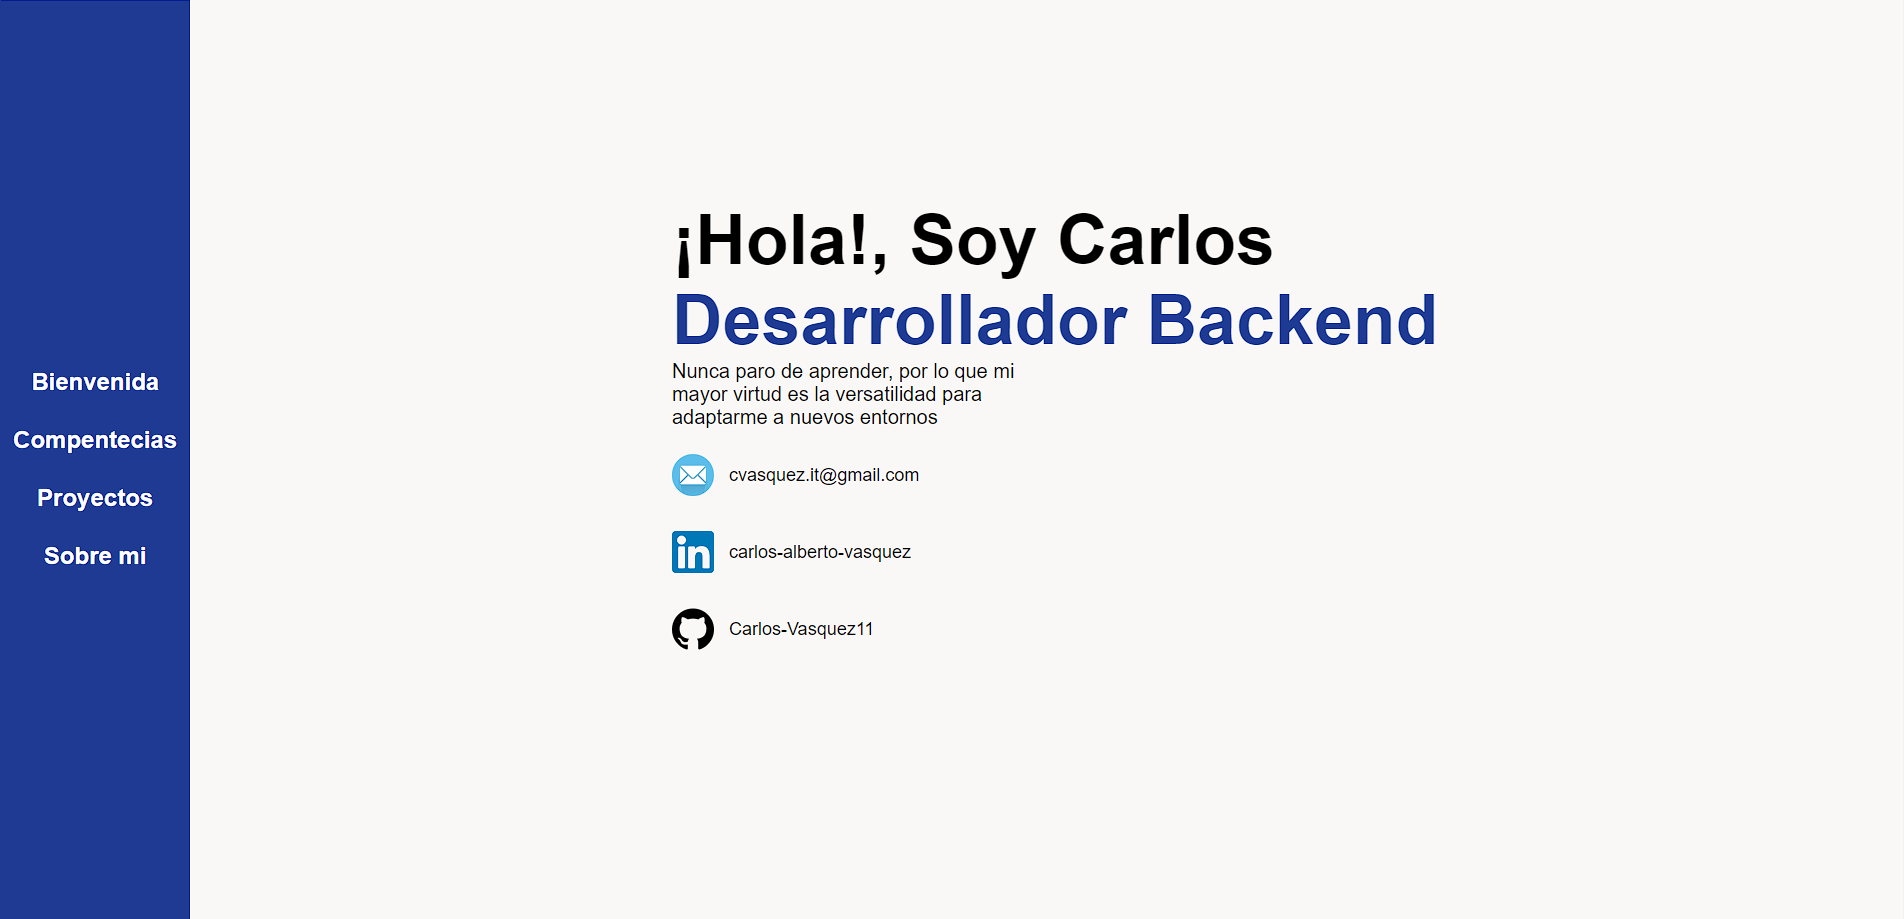
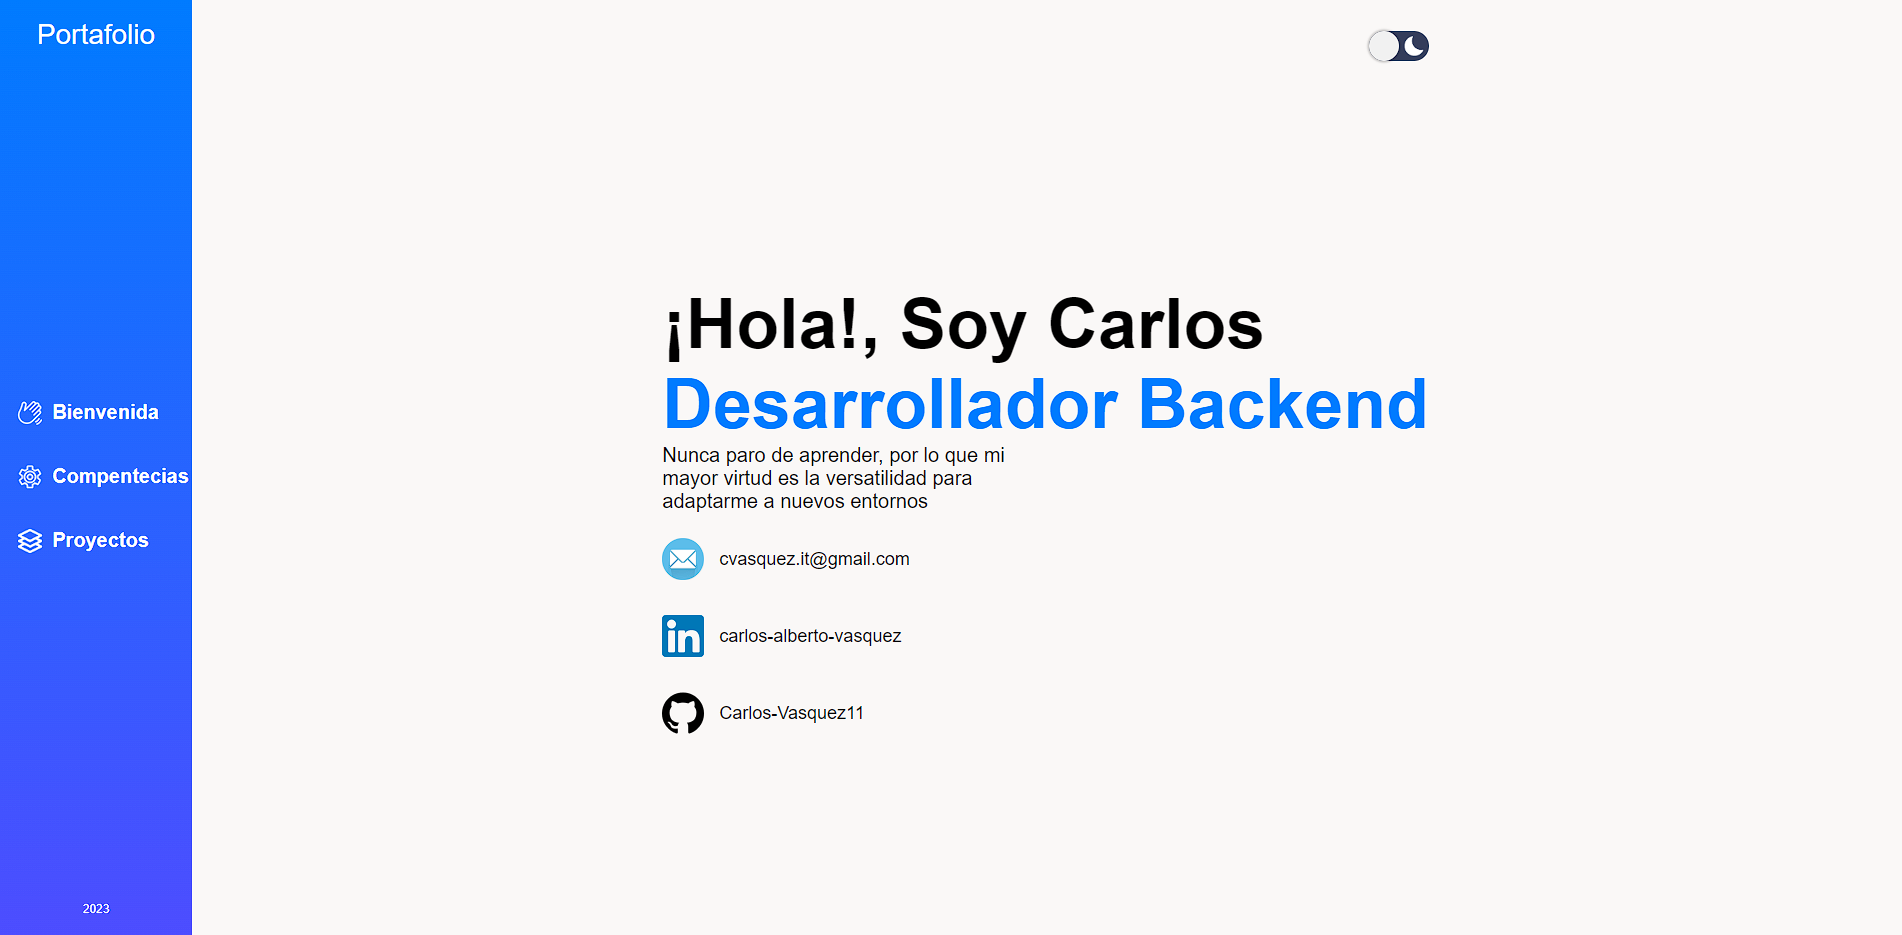
website updated

diff --git a/index.html b/index.html
@@ -1,4 +1,5 @@
 <!DOCTYPE html>
+<!--Flaticon provided some icons for the menu-->
 <html lang="es">
 <head>
     <meta charset="UTF-8">
@@ -8,17 +9,24 @@
     <link rel="stylesheet" type="text/css" href="./styles/index.css">
     <link rel="stylesheet" type="text/css" href="./styles/light.css" media="(prefers-color-scheme: light)">
     <link rel="stylesheet" type="text/css" href="./styles/dark.css" media="(prefers-color-scheme: dark)">
-    <link rel="stylesheet" media="(max-width: 1100px)" href="./styles/responsive.css">
-    <script type="module" src="./main.js"></script>
+    <link rel="stylesheet" media="(max-width: 1530px)" href="./styles/responsive.css">
+    <script type="module" src="./js/main.js"></script>
     <title>Carlos Vasquez</title>
 </head>
 <body>
 
-    <nav class="menu">
-        <a href="#welcome-seccion">Bienvenida</a>
-        <a href="#skills-seccion">Compentecias</a>
-        <a href="#project-seccion">Proyectos</a>
-    </nav>
+    <div class="menu">
+        <p class="tittle">Portafolio</p>
+
+        <nav class="menu-nav">
+            <a href="#welcome-seccion"><img src="./assets/menu/bienvenido.png" class="menu-icon">Bienvenida</a>
+            <a href="#skills-seccion"><img src="./assets/menu/skills.png" class="menu-icon">Compentecias</a>
+            <a href="#project-seccion"><img src="./assets/menu/projects.png" class="menu-icon">Proyectos</a>
+        </nav>
+        
+
+        <p class="year">2023</p>
+    </div>
 
     <main>
 

diff --git a/styles/index.css b/styles/index.css
@@ -100,22 +100,49 @@ html{
     bottom: 0;
     z-index: 1;
 
-    background-color: var(--secundary-blue);
+    background-image: linear-gradient(to bottom, var(--secundary-blue), #4d4dff);
 
     display: flex;
     flex-direction: column;
-    justify-content: center;
+    justify-content: space-between;
+    align-items: center;
     
+}
+
+.menu p{
+    color: white;
+}
+
+.menu .tittle{
+    font-size: 2.8rem;
+    padding-top: 20px;
+}
+
+.menu .year{
+    font-size: 1.2rem;
+    padding-bottom: 20px;
 }
 
 .menu a{
     text-decoration: none;
-    font-size: 2.4rem;
+    font-size: 2rem;
     font-weight: bold;
     color:white;
-    padding-top: 15px;
-    padding-bottom: 15px;
+    padding-top: 20px;
+    padding-bottom: 20px;
     padding-left: 15px;
+
+    display: flex;
+    align-items: center;
+    flex-wrap: wrap;
+
+}
+
+.menu .menu-icon{
+    width: 2.4rem;
+    height: 2.4rem;
+    margin-right: 10px;
+    
 }
 
 /*Main*/
@@ -123,7 +150,7 @@ html{
 main{
     padding-left: 10%;
     min-height: 100vh;
-    width: 100vw;
+    width: 99vw;
 
     display: flex;
     flex-direction: column;
